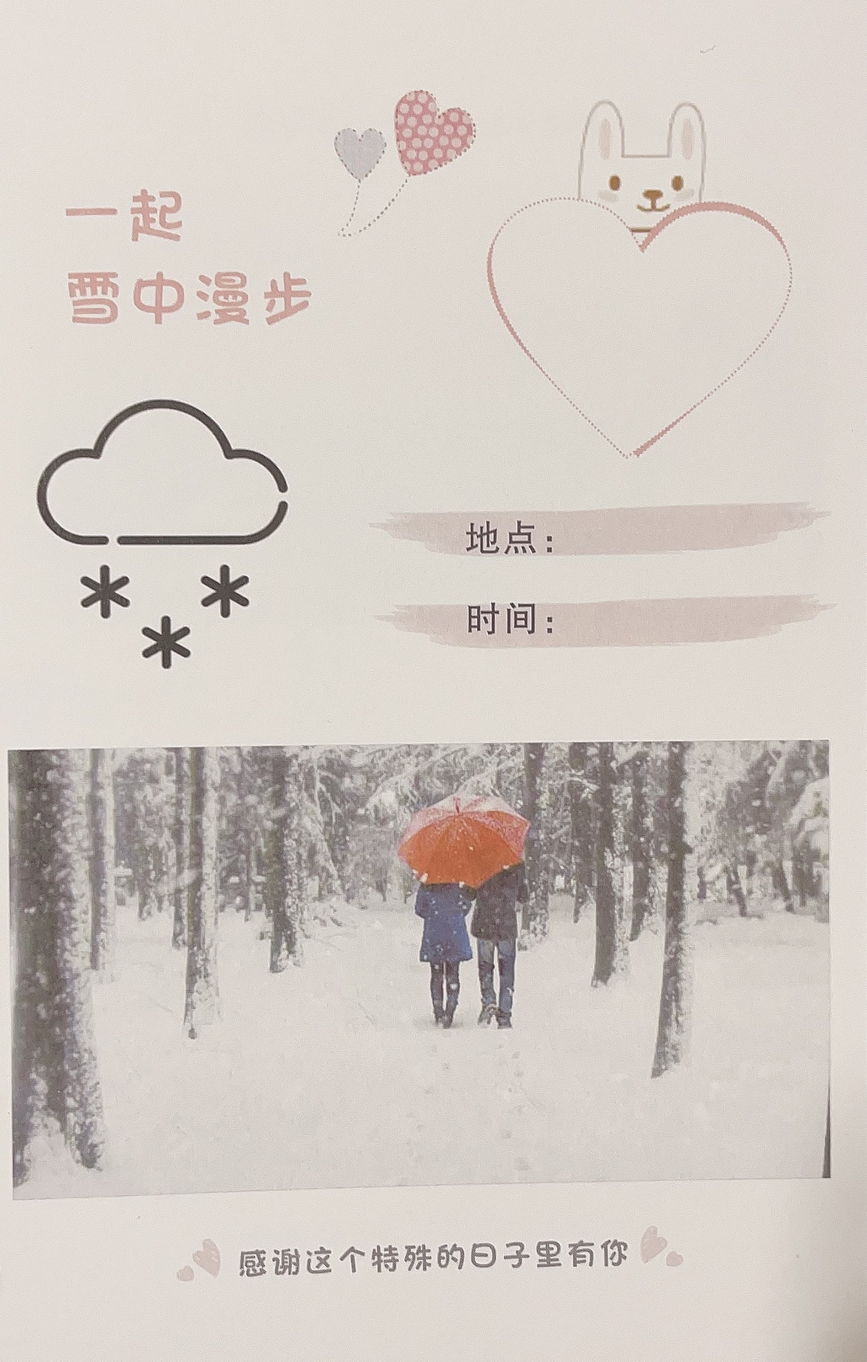
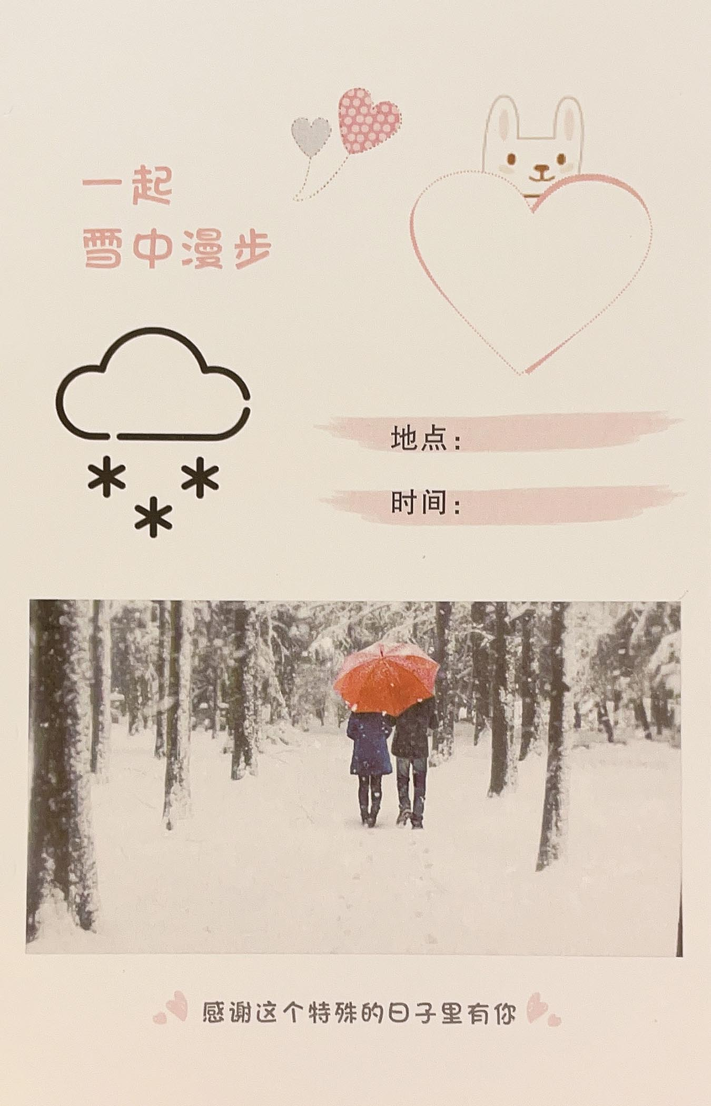
image

diff --git a/components/cardSwiper/cardSwiper.js b/components/cardSwiper/cardSwiper.js
@@ -97,20 +97,32 @@ Component({
     // 完成信息定位
     posInfo(index) {
       let item = this.data.swiperList[index]
-      let left = `swiperList[${index}].left`
-      let top = `swiperList[${index}].top`
+      let adrLeft = `swiperList[${index}].adrLeft`
+      let adrTop = `swiperList[${index}].adrTop`
+      let timeLeft = `swiperList[${index}].timeLeft`
+      let timeTop = `swiperList[${index}].timeTop`
+      let avaLeft = `swiperList[${index}].avaLeft`
+      let avaTop = `swiperList[${index}].avaTop`
       if (this.width) {
         this.setData({
-          [left]: item.ratioW * this.width,
-          [top]: item.ratioH * this.height
+          [adrLeft]: item.adrWidth / item.width * this.width,
+          [adrTop]: item.adrHeight / item.height * this.height,
+          [timeLeft]: item.timeWidth / item.width * this.width,
+          [timeTop]: item.timeHeight / item.height * this.height,
+          [avaLeft]: item.avaWidth / item.width * this.width,
+          [avaTop]: item.avaHeight / item.height * this.height
         })
       } else {
         this.createSelectorQuery().select(`#image${index}`).boundingClientRect((rect) => {
           this.width = rect.width
           this.height = rect.height
           this.setData({
-            [left]: item.ratioW * this.width,
-            [top]: item.ratioH * this.height
+            [adrLeft]: item.adrWidth / item.width * this.width,
+            [adrTop]: item.adrHeight / item.height * this.height,
+            [timeLeft]: item.timeWidth / item.width * this.width,
+            [timeTop]: item.timeHeight / item.height * this.height,
+            [avaLeft]: item.avaWidth / item.width * this.width,
+            [avaTop]: item.avaHeight / item.height * this.height
           })
         }).exec()
       }
@@ -179,11 +191,31 @@ Component({
             },
           },
           {
-            type: 'text',
-            text: '武汉',
+            type: 'image',
+            url: '../../static/images/finger.png',
+            mode: 'scaleToFill',
             css: {
-              left: imageItem.ratioW * canvasWitdh + 'px',
-              top: imageItem.ratioH * this.height + 'px'
+              width: '120rpx',
+              height: '120rpx',
+              left: imageItem.avaWidth / imageItem.width * canvasWitdh + 'px',
+              top: imageItem.avaHeight / imageItem.height * this.height + 'px'
+            },
+          },
+          {
+            type: 'text',
+            text: '中华人民共和国',
+            css: {
+              width: canvasWitdh - imageItem.timeWidth / imageItem.width * canvasWitdh + 'px',
+              left: imageItem.adrWidth / imageItem.width * canvasWitdh + 'px',
+              top: imageItem.adrHeight / imageItem.height * this.height + 'px'
+            }
+          },
+          {
+            type: 'text',
+            text: '2021-08-08',
+            css: {
+              left: imageItem.timeWidth / imageItem.width * canvasWitdh + 'px',
+              top: imageItem.timeHeight / imageItem.height * this.height + 'px'
             }
           }
         ]

diff --git a/pages/index/index.js b/pages/index/index.js
@@ -20,12 +20,12 @@ Page({
         canIUseGetUserProfile: true
       })
     }
-    options = {
-      id: '0710',
-      nickName: '媛媛',
-      avatarUrl: 'https://love100-1255423800.cos.ap-shanghai.myqcloud.com/images/avatar/avatar-01.jpg'
-    }
-    console.log('options', options)
+    // options = {
+    //   id: '0710',
+    //   nickName: '媛媛',
+    //   avatarUrl: 'https://love100-1255423800.cos.ap-shanghai.myqcloud.com/images/avatar/avatar-01.jpg'
+    // }
+    // console.log('options', options)
 
     // wx.showToast({
     //   title: JSON.stringify(options),

diff --git a/pages/hundred/hundred.js b/pages/hundred/hundred.js
@@ -21,10 +21,14 @@ Page({
         title: '一起雪中漫步',
         url: '/static/images/01.jpg',
         // src: i < 3 ? '/static/images/01.jpg' : '',
-        width: 1647,
-        height: 2586,
-        ratioW: 1070 / 1647,
-        ratioH: 950 / 2586,
+        width: 1350,
+        height: 2100,
+        adrWidth: 900,
+        adrHeight: 790,
+        timeWidth: 900,
+        timeHeight: 925,
+        avaWidth: 865,
+        avaHeight: 380,
         left: 10000,
         top: 10000,
         finished: true

diff --git a/utils/json.js b/utils/json.js
@@ -1,0 +1,7 @@
+const casd = {
+  src: '01',
+  adrLeft: 900,
+  adrTop: 790,
+  timeLeft: '',
+  timeTop: '',
+}
